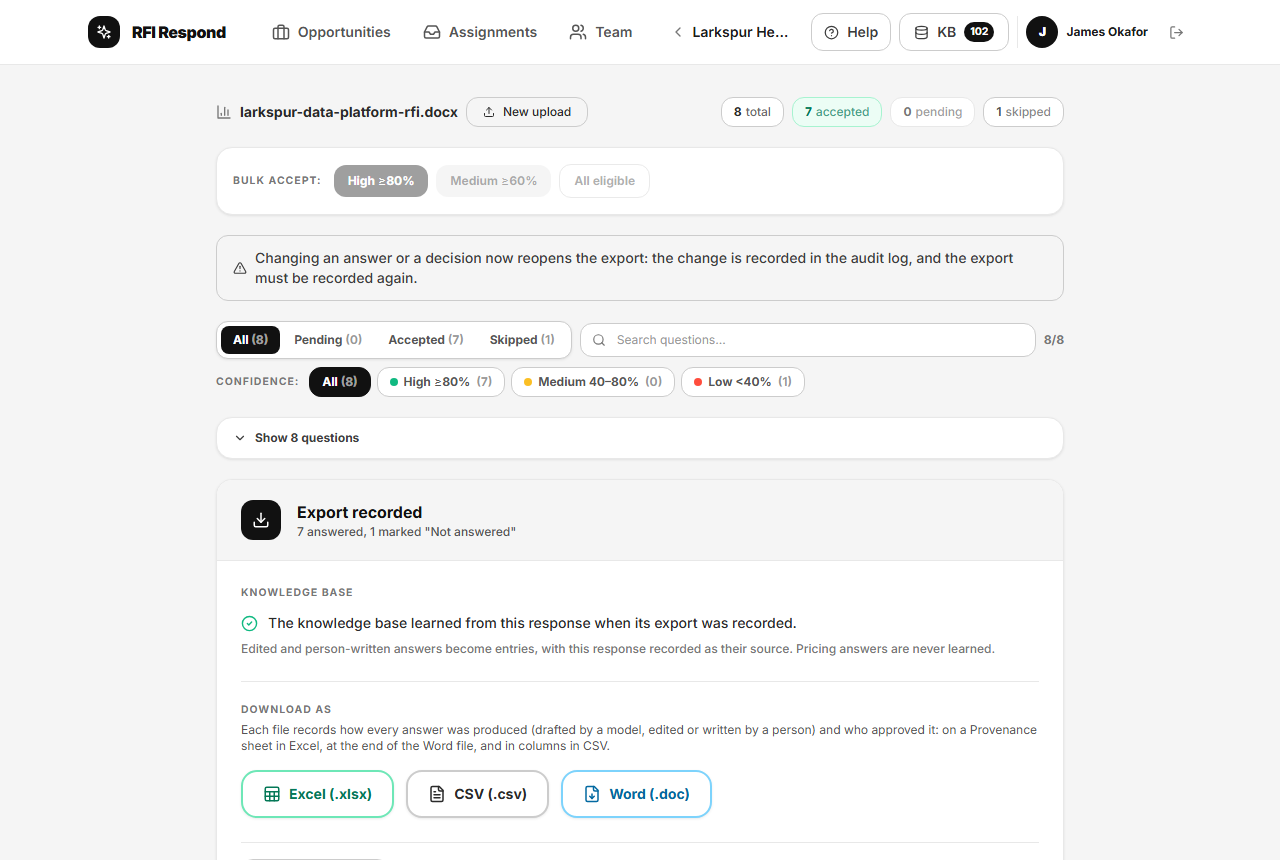
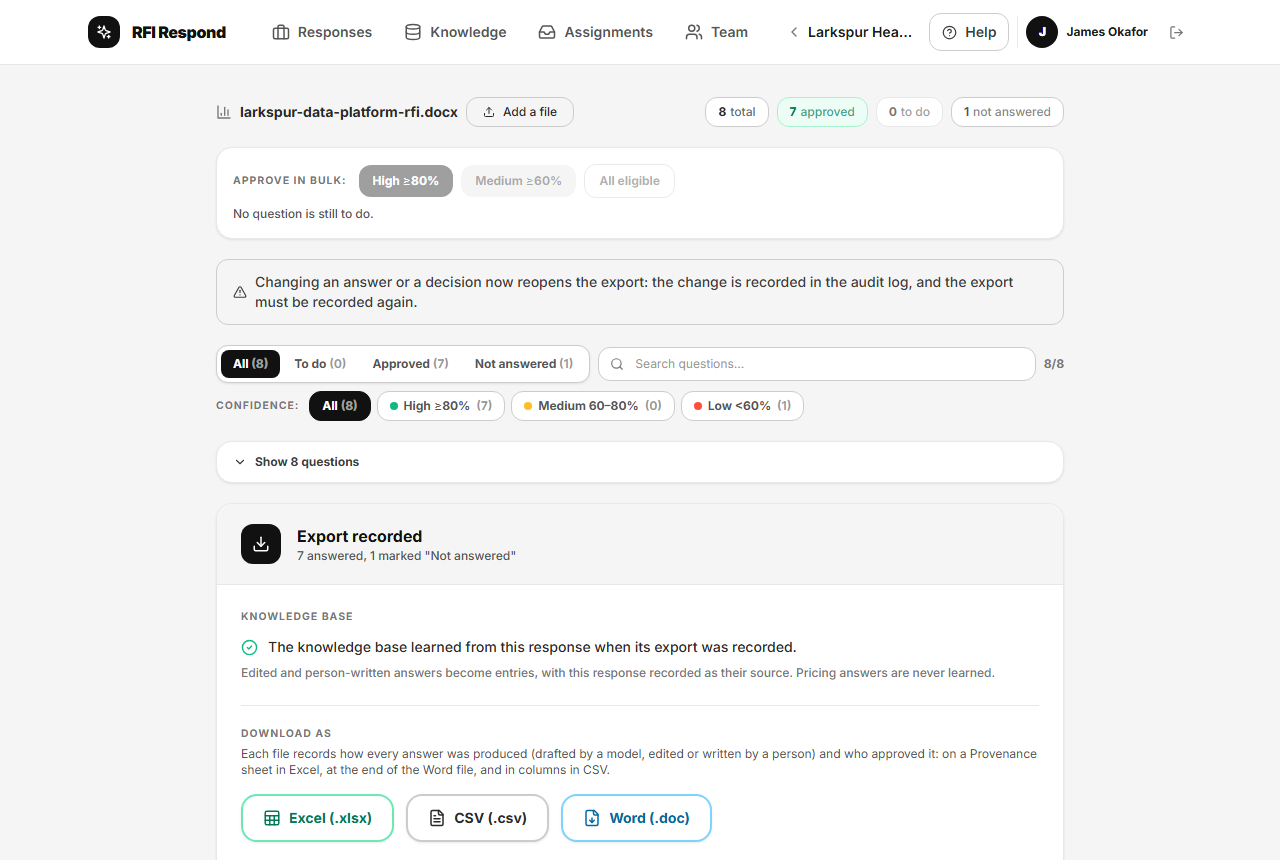
Retaken screenshots, with the knowledge page (S17-4)
Rory retook every screenshot on his PC (Q4); every view fits 768 px. The two new ones, the knowledge overview and all answers, are now in the guide, the introduction's knowledge step and the README.

Claude-Session: https://claude.ai/code/session_01WPpy6XYfi9BKBXrsw4t5HH

diff --git a/src/lib/onboarding.ts b/src/lib/onboarding.ts
@@ -103,9 +103,8 @@ export const INTRO_STEPS: IntroStep[] = [
       '**Knowledge** is the organisation\'s knowledge base, for everyone: how many answers there are, by topic and state, what was learned recently, and every answer to search and browse.',
       'Every draft comes from it, so a better knowledge base means better drafts. Add an answer or import a spreadsheet there.',
     ],
-    // The screenshot (17-knowledge.png) is added once Rory has retaken the screenshots (Sprint 17, Q4).
-    image: null,
-    imageAlt: '',
+    image: '17-knowledge.png',
+    imageAlt: 'The knowledge page: what the organisation knows',
     guide: { page: 'admin.md', anchor: 'the-knowledge-base', label: 'The knowledge base' },
   },
   {

diff --git a/docs/guide/admin.md b/docs/guide/admin.md
@@ -18,10 +18,14 @@ Under **Team**, choose **Edit** on anyone's card to change their name, job title
 
 Drafts are written only from the knowledge base, so its quality is the quality of the answers. **Knowledge** in the top bar opens it as a page of its own (Sprint 17), for everyone, not only admins.
 
+![The knowledge page: what the organisation knows](../screenshots/17-knowledge.png)
+
 - **What we know**, the overview: how many answers there are, in which languages and added by how many people; four counts that open the matching answers (**reviewed and current**, **waiting for an admin’s review**, **machine translations to check**, **overdue for review**); the answers **By topic**, from their tags, with how often each topic was cited in responses; and what was **Learned recently** from responses. A proposed change to an existing answer (learned from a response) is not counted as an answer of its own: it waits for review, and the answer it would change stays as it is until then.
 - **Browse all answers**: search by entry number (`KB-0101`, or just `101`) or by the words of questions, answers and tags; filter by state, language and where an answer came from (**Imported**, **Learned from responses**, **Added by hand**); and sort by number, most cited or oldest review first. The answer you choose is shown beside the list, with its topics, source and where it came from. Searching by meaning comes later. An entry written in Japanese is marked **Japanese**; the app works out an entry's language from its text, so there is nothing to choose.
 - **Add an answer** adds one question and answer, with tags and a source. An admin's entry counts as reviewed at once; a member's waits for review (below).
 - **Import a spreadsheet** adds many at once from a spreadsheet (.xlsx or .csv) with a question column and an answer column, and optionally tags and source. Map the columns, choose **Preview Import** to check the rows, untick any you do not want, then import. Rows without a question or answer are left out, and so is any question already in the knowledge base in the same language (ignoring case and spacing): an English question imported with a Japanese answer is a new, Japanese entry.
+
+![All answers, with one chosen](../screenshots/18-knowledge-browse.png)
 
 Reviewing entries is still under **Governance** (below); for an admin, the knowledge page links there.
 

diff --git a/README.md b/README.md
@@ -30,6 +30,8 @@ Product owner: Rory McClelland. Code written by Claude, as an AI coding agent, w
 
 | | |
 |---|---|
+| ![The knowledge page: what the organisation knows](docs/screenshots/17-knowledge.png) | ![All answers, with one chosen](docs/screenshots/18-knowledge-browse.png) |
+| The knowledge base: what the organisation knows, by topic and state | Every answer, searchable, with where it came from |
 | ![Overview of responses in flight](docs/screenshots/1-overview.png) | ![Review, lowest confidence first, with the bulk approval bar](docs/screenshots/2-review.png) |
 | Responses in flight, with owner, due date and progress | Review, lowest confidence first; bulk approval above a threshold |
 | ![A pricing question held for a person](docs/screenshots/4-pricing-held.png) | ![An expert's assignment inbox](docs/screenshots/5-assignments.png) |
